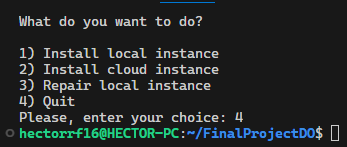
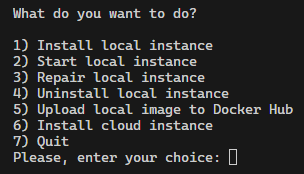
New features added

Changed region(s): [[0.0, 0.0, 0.977, 0.9796]]

diff --git a/README.md b/README.md
@@ -47,34 +47,36 @@ Aqui teneis la estructura (arbol de carpeta) del proyecto al final de todo el pr
 ```
 "FinalProjectDO"
 ├── "docker"
-│   ├── "grafana"
-│   │   └── "provisioning"
-│   │       └── "datasources"
-│   │           └── "datasource.yml"
-│   ├── "docker-compose.yml"
-│   ├── "app"
-│   │   ├── "app.py"
-│   │   ├── "views"
-│   │   │   └── "home.tpl"
-│   │   ├── "static"
-│   │   │   ├── "css"
-│   │   │   │   ├── "materialize.css"
-│   │   │   │   └── "materialize.min.css"
-│   │   │   └── "js"
-│   │   │       ├── "materialize.min.js"
-│   │   │       └── "materialize.js"
-│   │   └── "requirements.txt"
-│   └── "app-dockerfile"
+│   ├── "grafana"
+│   │   └── "provisioning"
+│   │       └── "datasources"
+│   │           └── "datasource.yml"
+│   ├── "docker-compose.yml"
+│   ├── "app"
+│   │   ├── "app.py"
+│   │   ├── "views"
+│   │   │   └── "home.tpl"
+│   │   ├── "static"
+│   │   │   ├── "css"
+│   │   │   │   ├── "materialize.css"
+│   │   │   │   └── "materialize.min.css"
+│   │   │   └── "js"
+│   │   │       ├── "materialize.min.js"
+│   │   │       └── "materialize.js"
+│   │   └── "requirements.txt"
+│   └── "dockerfile"
 ├── "Proyecto Final Bootcamp DevOps.pdf"
 ├── "LICENSE"
 ├── "README.md"
 ├── "run.sh"
 └── "screenshots"
+    ├── "dockerhub.png"
     ├── "scriptmenu.png"
+    ├── "dockerimages.png"
     ├── "repairmenu.png"
     └── "dockerlist.png"
 
-10 directories, 17 files
+10 directories, 19 files
 ```
 
 ## **CONTAINER**
@@ -95,16 +97,24 @@ Para poder ejecutar la app, dale permisos de ejecucion para el owner, es decir, 
 
 Una vez ejecutado el script (`$ sh ./run.sh`), este sera el menu que vereis y que podreis interactuar
 
-![Script Menu](https://raw.githubusercontent.com/hectorrf16/FinalProjectDO/main/screenshots/scriptmenu.png)
-<!-- ![Script Menu](screenshots/scriptmenu.png) -->
+<!-- ![Script Menu](https://raw.githubusercontent.com/hectorrf16/FinalProjectDO/main/screenshots/scriptmenu.png) -->
+![Script Menu](screenshots/scriptmenu.png)
 
-1. Menu para elegir la instalacion en local utilizando docker.  
-2. Menu para elegir la instalacion en el cloud con AWS y Kubernetes.
-3. Menu para reparar la instancia en local
- 
-
+1. Menu para elegir la instalación en local utilizando docker.  
+2. Menu para elegir iniciar la instalación en local.  
+3. Menu para elegir reparar la instancia en local.  
 ![Repair Menu](https://raw.githubusercontent.com/hectorrf16/FinalProjectDO/main/screenshots/repairmenu.png)
 <!-- ![Repair Menu](screenshots/repairmenu.png) -->
+4. Menu para elegir desinstalar la instancia en local.  
+5. Menu para elegir la subida de todas las imagenes en local en un repo en Docker con formato 'nombreusuario'/'nombrerepor':'nombreservicio'.  
+<!-- ![Repair Menu](https://raw.githubusercontent.com/hectorrf16/FinalProjectDO/main/screenshots/dockerhub.png) -->
+ ![Repair Menu](screenshots/dockerhub.png)
+<!-- ![Repair Menu](https://raw.githubusercontent.com/hectorrf16/FinalProjectDO/main/screenshots/dockerimages.png) -->
+ ![Repair Menu](screenshots/dockerimages.png)
+
+6. Menu para elegir la instalacion en el cloud con AWS y Kubernetes.
+ 
+
 
 ## **ORQUESTADOR CONTAINERS**
 ## **SISTEMA DE DESPLIEGUE**
